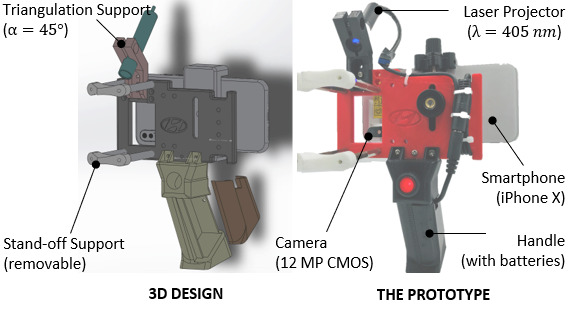
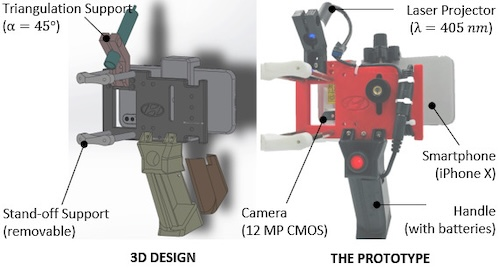
Refactor layout and improve clarity in gap_hcm_2018.md

diff --git a/_projects/gap_hcm_2018.md b/_projects/gap_hcm_2018.md
@@ -15,7 +15,7 @@ Accurate measurement of **Gap** (horizontal distance) and **Flush** (vertical di
 Developed in collaboration with **Hyundai Motor Company (Advanced Manufacturing CAE Team)**, this project engineered a handheld, low-cost **Smartphone-based Laser Measurement (SLM)** device {% cite Pham2021Smartphone %}. By combining a custom 3D-printed triangulation mount, a violet-blue line laser, and real-time mobile computer vision algorithms, the system replaces manual inspection tools directly on the assembly line.
 
 <div class="row justify-content-sm-center">
-    <div class="col-sm-8 mt-3 mt-md-0">
+    <div class="col-sm-6 mt-3 mt-md-0">
         {% include figure.liquid loading="eager" path="assets/img/projects/gap_hcm_2018/figure_slm_device.jpg" title="SLM 3D CAD & Physical Prototype" class="img-fluid rounded z-depth-1" %}
     </div>
     <div class="col-sm-4 mt-3 mt-md-0">
@@ -23,23 +23,23 @@ Developed in collaboration with **Hyundai Motor Company (Advanced Manufacturing 
     </div>
 </div>
 <div class="caption">
-    Left: 3D CAD model of the reverse triangulation frame ($\alpha=45^\circ$). Right: Operational handheld prototype with integrated violet-blue laser and smartphone sensor.
+    Left: 3D CAD model of the reverse triangulation frame. Right: Operational handheld prototype with integrated violet-blue laser and iPhone X sensor.
 </div>
 
 ---
 
 ## Key Hardware & Optical Innovations
 
-* **Reverse Triangulation Geometry ($\alpha = 45^\circ$):** Designed a reverse optical setup where the smartphone camera is perpendicular to the car body panel while the laser is offset at $45^\circ$. This converts vertical surface shifts ($\partial Z$) directly into horizontal pixel displacements ($\partial y = \partial Z \tan 45^\circ = \partial Z$), maximizing height sensing resolution.
-* **Violet-Blue Laser Technology ($\lambda = 405\text{ nm}$):** Replaced standard red lasers with a $405\text{ nm}$ violet-blue line laser ($20\text{ mW}$) to eliminate light absorption and diffusion across dynamic car body paint colors (e.g., white, metallic silver, deep red, black).
+* **Reverse Triangulation Geometry:** Designed a reverse optical setup where the smartphone camera is perpendicular to the car body panel while the laser is offset at $45^\circ$. This converts vertical surface shifts ($\partial Z$) directly into horizontal pixel displacements ($\partial y = \partial Z \tan 45^\circ = \partial Z$), maximizing height sensing resolution.
+* **Violet-Blue Laser Technology:** Replaced standard red lasers with a $405\text{ nm}$ violet-blue line laser (20\text{ mW}$) to eliminate light absorption and diffusion across dynamic car body paint colors (e.g., white, metallic silver, deep red, black).
 * **Ambient Light Rejection via Shutter Bias:** Adapted a temporal exposure filtering technique, locking camera ISO/sensitivity ($S=22$) and forcing ultra-fast shutter speeds ($t = 1/306\text{ s}$ to $1/12000\text{ s}$) to completely suppress bright factory ambient lighting, isolating a single sharp laser profile.
 
 ---
 
 ## Methodology
 
-<div class="row">
-    <div class="col-sm mt-3 mt-md-0">
+<div class="row justify-content-sm-center">
+    <div class="col-sm-8 mt-3 mt-md-0">
         {% include figure.liquid loading="eager" path="assets/img/projects/gap_hcm_2018/figure_workflow.jpg" title="Workflow" class="img-fluid rounded z-depth-1" %}
     </div>
 </div>
@@ -60,18 +60,18 @@ The real-time computer vision pipeline runs directly on the mobile device, execu
 
 ## Performance & Industrial Impact
 
-* **High Measurement Accuracy:** Evaluated under GUM (Guide to the Expression of Uncertainty in Measurement) and AIAG MSA standards. Achieved an expanded measurement uncertainty of **$\pm 0.201\text{ mm}$ for Gap** and **$\pm 0.154\text{ mm}$ for Flush** on real vehicle bodies, well within the strict automotive tolerance threshold of $\pm 0.200\text{ mm}$.
-* **Real-Time Execution:** Operates at **60 FPS at Full-HD** resolution using lightweight CPU-based mobile processing.
-* **Significant Productivity Gain:** Reduced inspection cycle time from **$218.26\text{ man-seconds/car}$** (manual two-operator method) to **$11.01\text{ man-seconds/car}$**, saving **$1.38\text{ man-hours per car}$** on the production line.
-
 <div class="row justify-content-sm-center">
     <div class="col-sm-4 mt-3 mt-md-0">
         {% include figure.liquid loading="eager" path="assets/img/projects/gap_hcm_2018/figure_slm_measurement_ui.jpg" title="Live SLM UI Output" class="img-fluid rounded z-depth-1" %}
     </div>
-    <div class="col-sm-8 mt-3 mt-md-0">
+    <div class="col-sm-6 mt-3 mt-md-0">
         {% include figure.liquid loading="eager" path="assets/img/projects/gap_hcm_2018/figure_processing_speed.jpg" title="Processing Speed" class="img-fluid rounded z-depth-1" %}
     </div>
 </div>
 <div class="caption">
     Real-time measurement visualization on smartphone screen displaying calculated Gap ($W: 3.32\text{ mm}$) and Flush ($F: 0.06\text{ mm}$) values.
 </div>
+
+* **High Measurement Accuracy:** Evaluated under GUM (Guide to the Expression of Uncertainty in Measurement) and AIAG MSA standards. Achieved an expanded measurement uncertainty of **$\pm 0.201\text{ mm}$ for Gap** and **$\pm 0.154\text{ mm}$ for Flush** on real vehicle bodies, well within the strict automotive tolerance threshold of $\pm 0.200\text{ mm}$.
+* **Real-Time Execution:** Operates at **60 FPS at Full-HD** resolution using lightweight CPU-based mobile processing.
+* **Significant Productivity Gain:** Reduced inspection cycle time from **218.26$ man-seconds/car$** (manual two-operator method) to **11.01 man-seconds/car**, saving **1.38 man-hours/car** on the production line.
